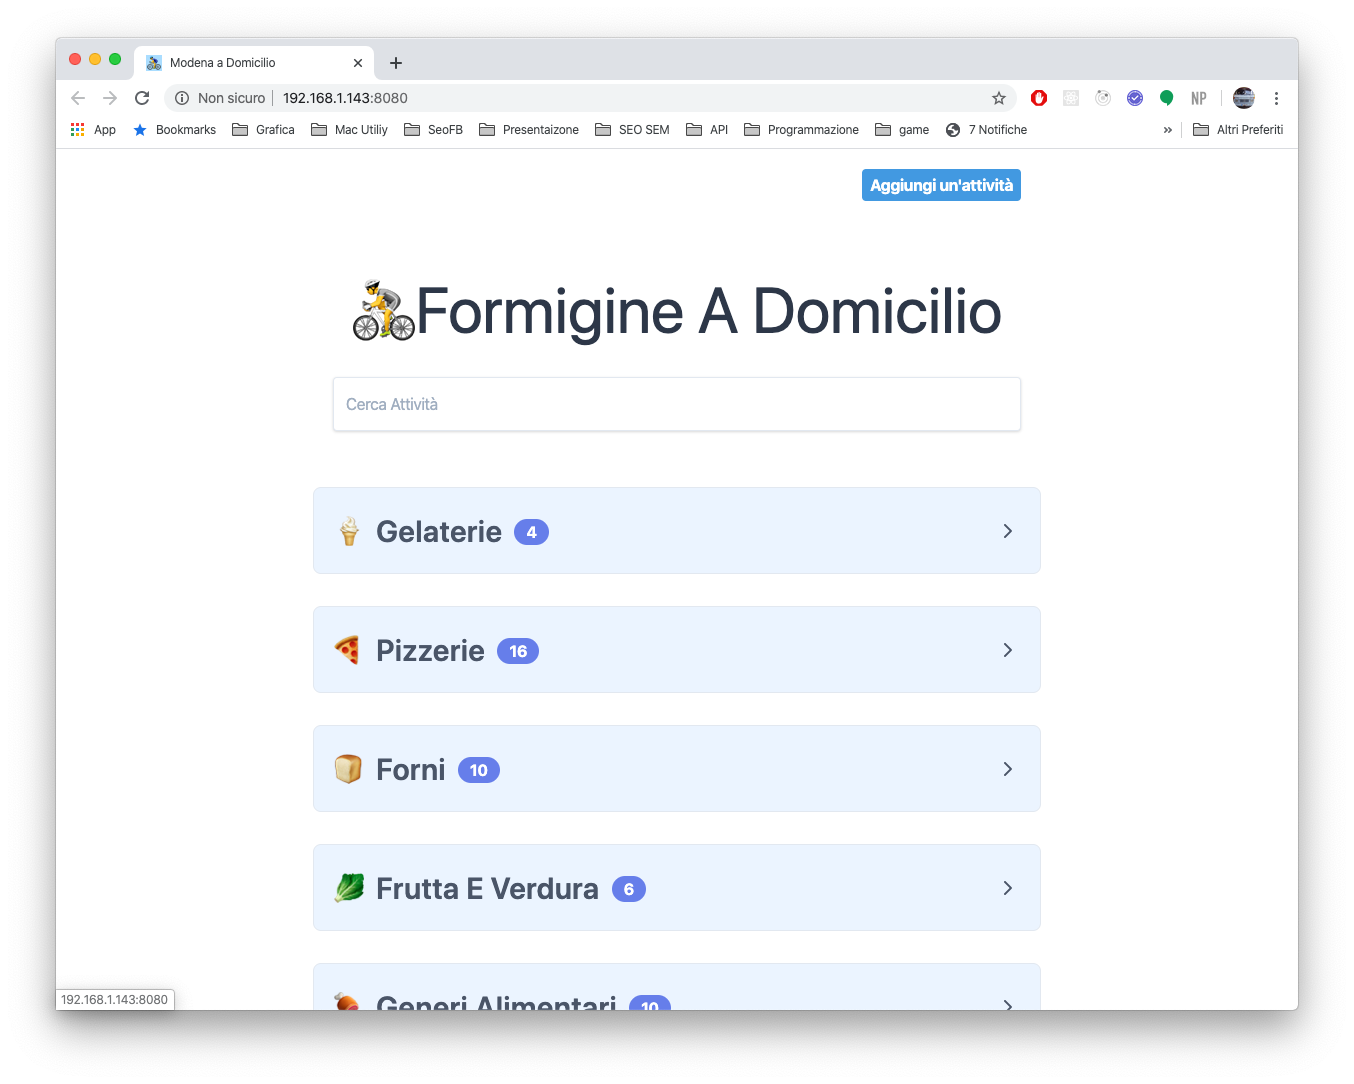
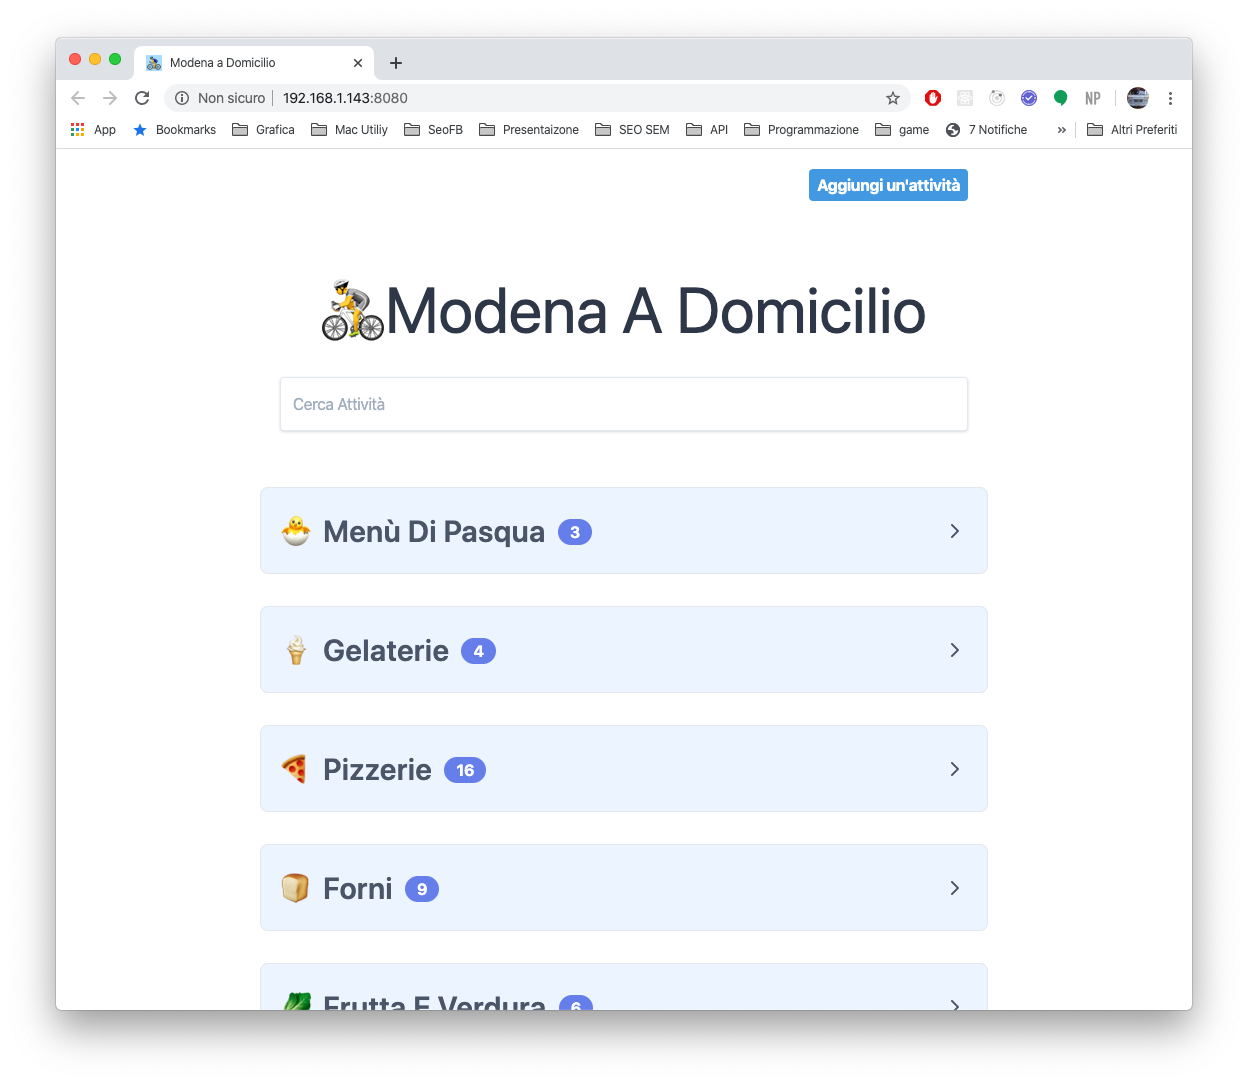
fix label Modena and image in readme.rm

diff --git a/src/template.html b/src/template.html
@@ -5,7 +5,7 @@
       <title>Modena a Domicilio</title>
       <meta property="og:url" content="https://formiginedomicilio.netlify.com" />
       <meta property="og:type" content="website" />
-      <meta property="og:title" content="Formgine a Domicilio" />
+      <meta property="og:title" content="Modena a Domicilio" />
       <meta
          property="og:description"
          content="Tutte le attività che effettuano consegne a domicilio nel comune di Modena"
